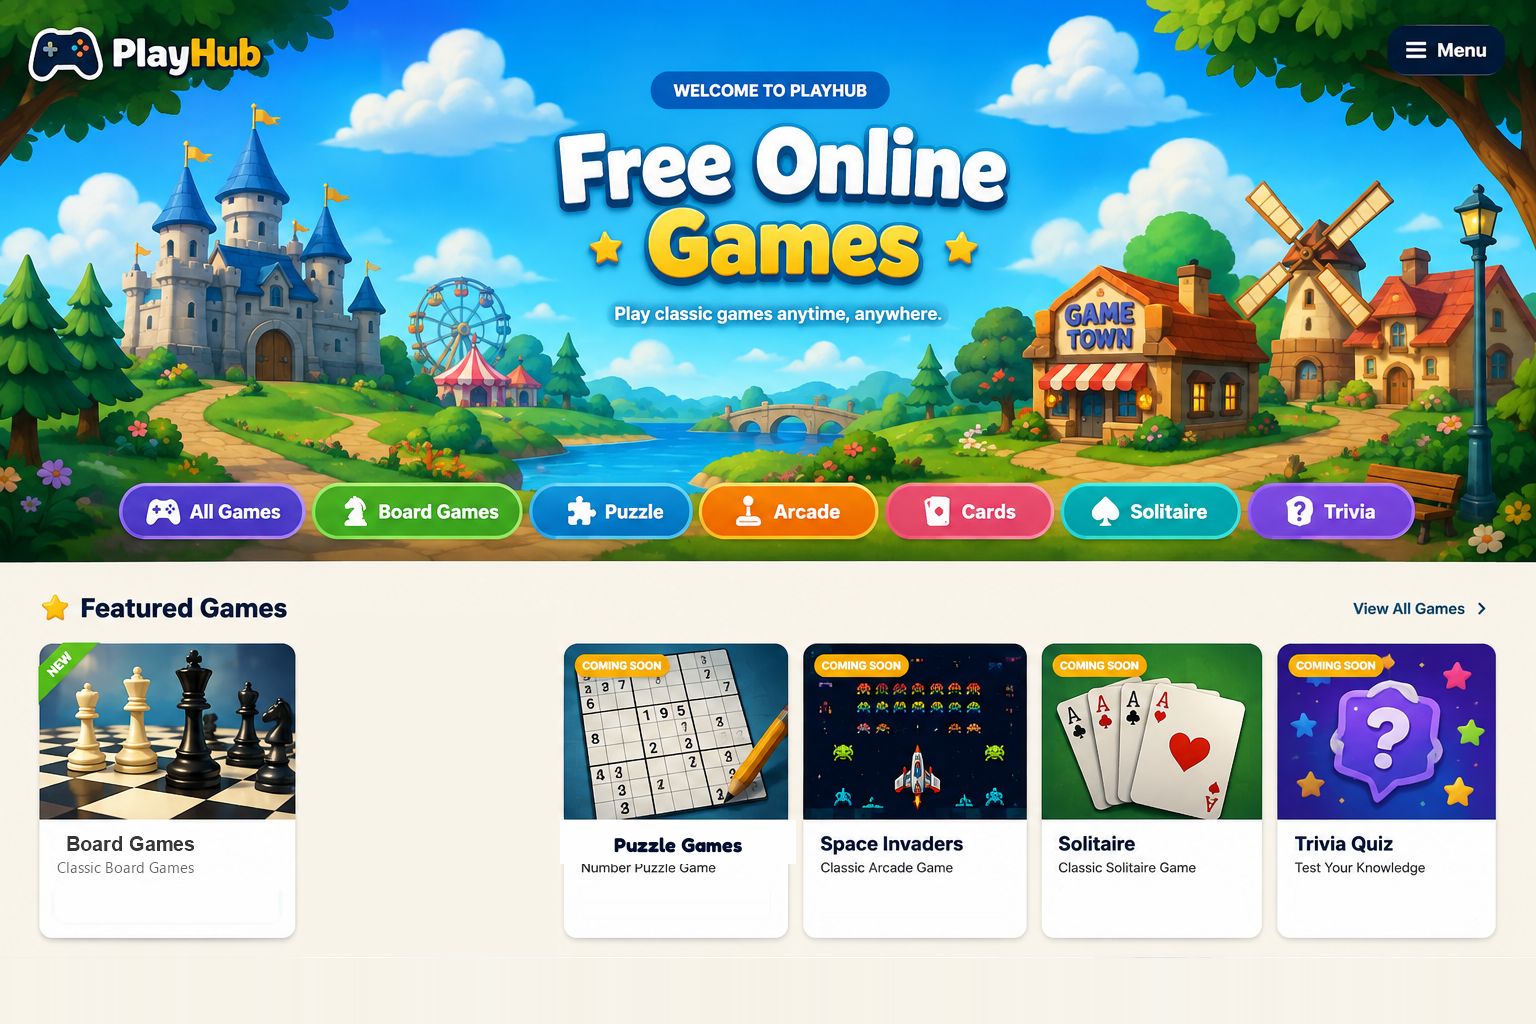
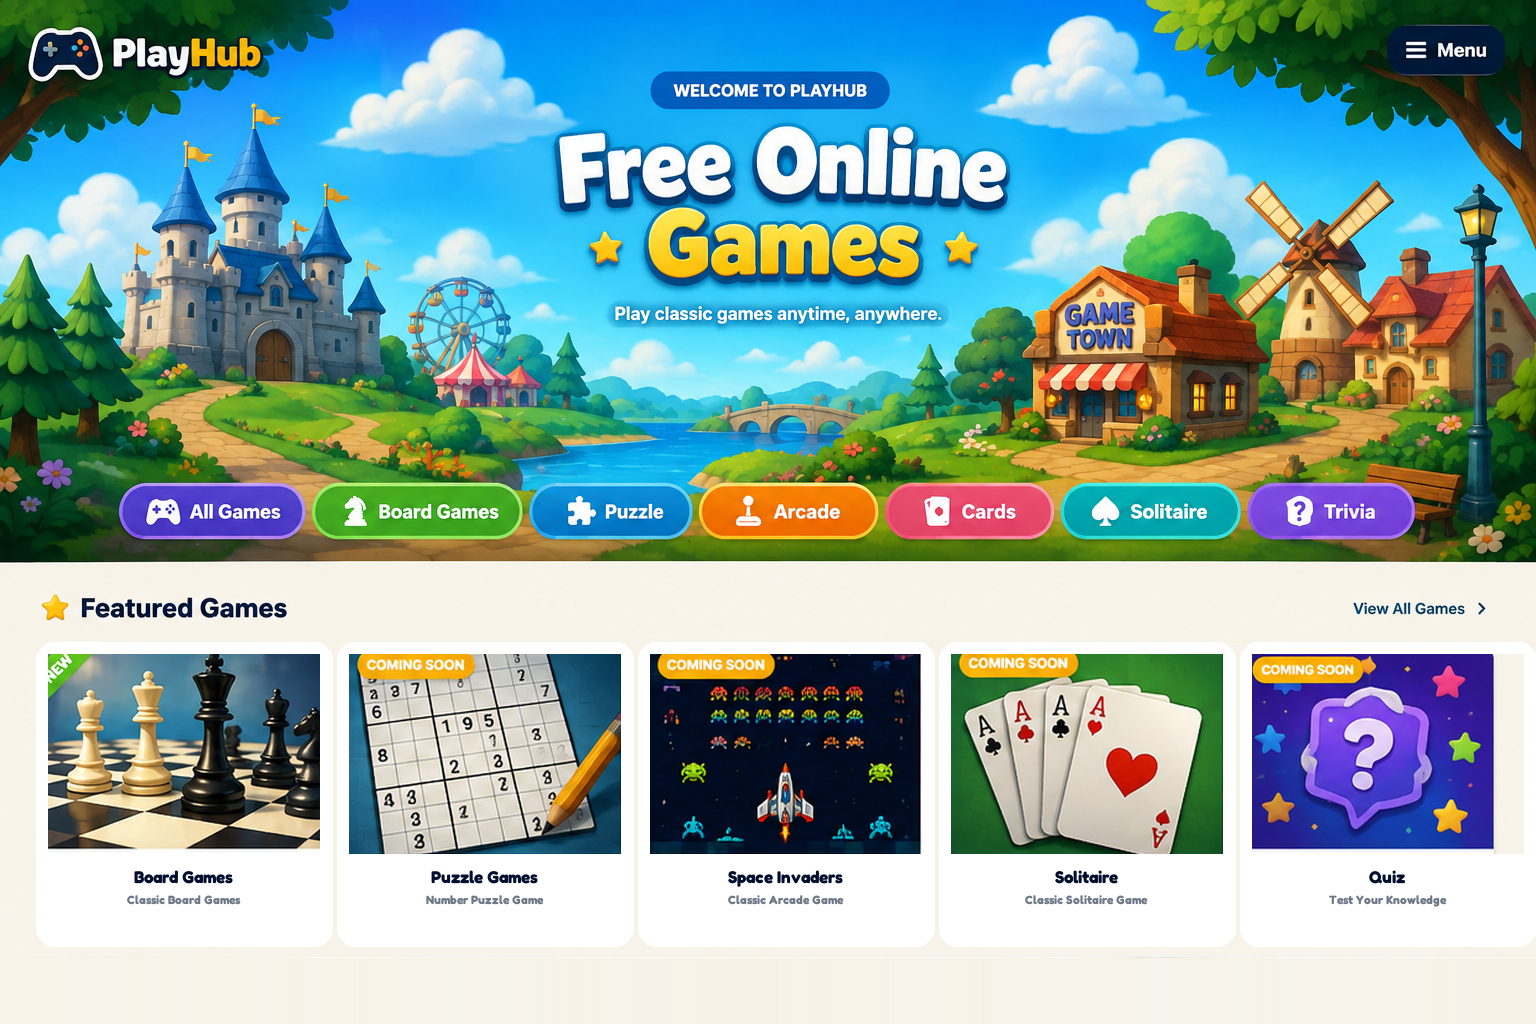
fix(homepage): redraw Featured Games cards on design image - 5 equal-width/equal-height cards, uniform 4:3 thumbnails, updated hotspots and button positions

Changed region(s): [[0.0, 0.625, 0.9688, 0.9375]]

diff --git a/index.html b/index.html
@@ -64,12 +64,12 @@
 
     <!-- 設計圖上的互動熱區：點卡片進入對應遊戲（座標為 1536×1024 原圖座標） -->
     <map name="playhub-map" id="playhub-map">
-      <area shape="rect" coords="36,614,300,952" href="board-games.html" title="Board Games" alt="Board Games — Classic Board Games Category" />
+      <area shape="rect" coords="36,642,332,946" href="board-games.html" title="Board Games" alt="Board Games — Classic Board Games Category" />
       <!-- Checkers 已正式歸類至 Board Games 分類內，首頁不再有獨立 Checkers 卡片 -->
-      <area shape="rect" coords="560,614,796,952" href="#games" data-soon="Puzzle Games" title="Puzzle Games — Coming Soon" alt="Puzzle Games — coming soon" />
-      <area shape="rect" coords="800,614,1036,952" href="#games" data-soon="Space Invaders" title="Space Invaders — Coming Soon" alt="Space Invaders — coming soon" />
+      <area shape="rect" coords="337,642,633,946" href="#games" data-soon="Puzzle Games" title="Puzzle Games — Coming Soon" alt="Puzzle Games — coming soon" />
+      <area shape="rect" coords="638,642,934,946" href="#games" data-soon="Space Invaders" title="Space Invaders — Coming Soon" alt="Space Invaders — coming soon" />
       <!-- Solitaire：圖片熱區已移除，僅 PLAY NOW 按鈕可進入遊戲 -->
-      <area shape="rect" coords="1274,614,1536,952" href="#games" data-soon="Quiz" title="Quiz — Coming Soon" alt="Quiz — coming soon" />
+      <area shape="rect" coords="1240,642,1536,946" href="#games" data-soon="Quiz" title="Quiz — Coming Soon" alt="Quiz — coming soon" />
 
       <!-- About / Privacy 入口：點設計圖 footer 上的 About US / Privacy Policy 文字進入對應頁面 -->
       <area shape="rect" coords="620,978,700,1005" href="about.html" title="About PlayHub" alt="About PlayHub" />

diff --git a/css/style.css b/css/style.css
@@ -727,7 +727,7 @@ a {
    ═══════════════════════════════════════════════════════════════ */
 .overlay-action {
   position: absolute;
-  top: 87.5%;
+  top: 86.5%;
   height: 5.5%;
   width: 11.62%;
   display: flex;
@@ -790,11 +790,11 @@ a {
   transform: translateX(-50%) scale(1.04);
 }
 
-.overlay-action--board-games { left: 10.94%; }
-.overlay-action--puzzle { left: 44.14%; }
-.overlay-action--space { left: 59.77%; }
-.overlay-action--solitaire { left: 75.13%; }
-.overlay-action--quiz { left: 91.47%; }
+.overlay-action--board-games { left: 11.98%; }
+.overlay-action--puzzle { left: 31.58%; }
+.overlay-action--space { left: 51.17%; }
+.overlay-action--solitaire { left: 70.77%; }
+.overlay-action--quiz { left: 90.36%; }
 
 /* ═══════════════════════════════════════════════════════════════
    More Games 遊戲選單（圖片版首頁下方的分類清單）
